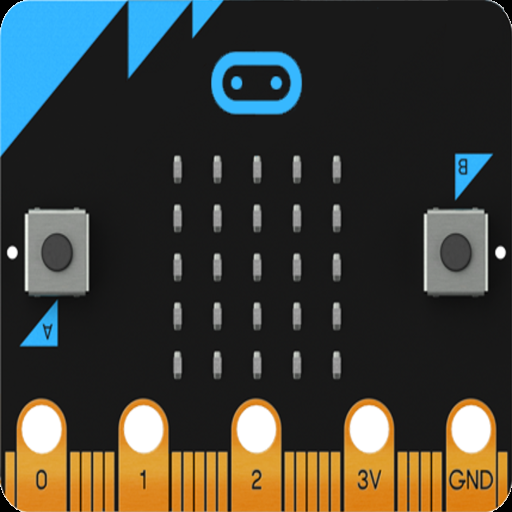
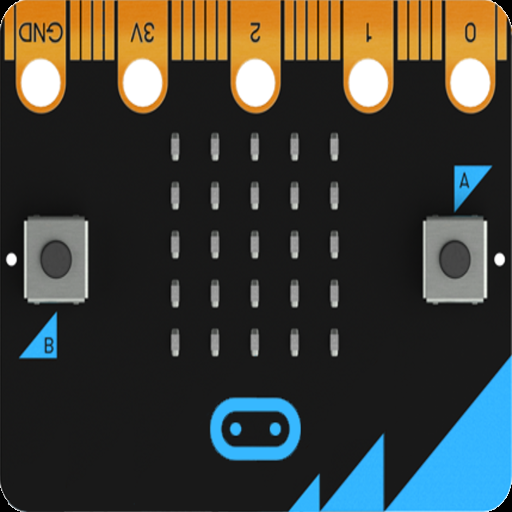
Radio working

diff --git a/smh_microbit/orientation/pc/web/js/cube.js b/smh_microbit/orientation/pc/web/js/cube.js
@@ -4,6 +4,7 @@ var camera;
 var scene;
 var renderer;
 var cube;
+var info = document.getElementById("info");   // Info text.
 
 
 function init() {
@@ -32,7 +33,7 @@ function init() {
 			shininess: 20
 		} );
 		cube = new THREE.Mesh( geometry,
-			[material1,material1,material_display,material_sensors,material1,material1,]
+			[material1,material1,material_sensors,material_display,material1,material1,]
 		);
     cube.position.z = -250;
 		scene.add( cube );
@@ -73,8 +74,9 @@ var ws = new WebSocket("ws://127.0.0.1:5678/");
 ws.onmessage = function (event) {
 	orientation = JSON.parse(event.data);
 	// console.log(orientation);
-	cube.rotation.z = orientation[0]/180*3.141592;  // Roll
+	cube.rotation.z = -orientation[0]/180*3.141592; // Roll
 	cube.rotation.x = orientation[1]/180*3.141592;  // Pitch
-	cube.rotation.y = -orientation[2]/180*3.141592;  // Yaw
+	cube.rotation.y = -orientation[2]/180*3.141592; // Yaw
+  info.innerHTML = "Roll:  "+Math.round(orientation[0])+"<br/>Pitch: "+Math.round(orientation[1])+"<br/>Yaw: "+Math.round(orientation[2])
   render();
 };

diff --git a/smh_microbit/orientation/pc/web/demo_mb.html b/smh_microbit/orientation/pc/web/demo_mb.html
@@ -1,16 +1,30 @@
 <!DOCTYPE html>
 <html>
   <head>
-    <title>WebGL/Three.js Step Tutorial</title>
+    <title>DEMO: Microbit Orientation</title>
+    <meta charset="utf-8" />
     <style>
      body {
       margin: 0px;
+      font-family: Monospace;
       background-color: #fff;
       overflow: hidden;
      }
+
+			#info {
+				position: absolute;
+				bottom: 10px;
+        left: 10px;
+				width: 100%;
+				text-align: left;
+				z-index: 100;
+				display:block;
+			}
    </style>
   </head>
   <body>
+    <div id="info">
+    </div>
    <script src="js/three.min.js"></script>
    <script src="js/cube.js"></script>
   </body>

diff --git a/smh_microbit/orientation/pc/utils/orientation.py b/smh_microbit/orientation/pc/utils/orientation.py
@@ -18,14 +18,14 @@ class Orientation:
         """Apply the inital calibration.
         """
         roll, pitch, yaw = self._data2roll_pitch_yaw(data)
-        new_roll = (-roll+self.c_roll)%360
-        if 90<new_roll<270 and 90<yaw<270:
-            pitch = -pitch
-        return (
-            new_roll,
-            (pitch-self.c_pitch)%360,
-            (yaw-self.c_yaw)%360
-        )
+        new_roll = (roll-self.c_roll)%360
+        new_yaw = (yaw-self.c_yaw)%360
+        if 90<new_yaw<270:
+            new_pitch = (self.c_pitch-pitch)%360
+        else:
+            new_pitch = (pitch-self.c_pitch)%360
+        return (new_roll, new_pitch, new_yaw)
+
 
     @staticmethod
     def _data2roll_pitch_yaw(data):

diff --git a/smh_microbit/orientation/pc/webserver.py b/smh_microbit/orientation/pc/webserver.py
@@ -27,11 +27,12 @@ if __name__ == '__main__':
     print("==>  CALIBRATION  <==")
     print("Put yout device:")
     print("\t- On an flat surface")
-    print("\t- With the LCD matrix facing upwards")
+    print("\t- With the micro:bit logo facing upwards")
     print("\t- With the USB connector pointing to the screen")
     input("... and press ENTER")
     c_roll, c_pitch, c_yaw = Orientation._data2roll_pitch_yaw(connection.get_data())
     orientation = Orientation(c_roll, c_pitch, c_yaw)
+    # orientation = Orientation(0,0,0)
     print("\n\n==>  WEB SERVER  <==")
     print("\t- Open the file web/demo_mb.html")
     print("\t- Firefox: OK")

diff --git a/smh_microbit/orientation/microbit/radio_receiver.py b/smh_microbit/orientation/microbit/radio_receiver.py
@@ -1,0 +1,18 @@
+# -*- coding: utf-8 -*-
+"""Read the radio messages and write them in the serial port.
+"""
+
+from microbit import uart
+import radio
+
+from data import DATA_LENGTH
+
+
+radio.config(length=DATA_LENGTH)
+radio.on()
+uart.init(115200)
+
+while True:
+    data = radio.receive()
+    if data:
+        uart.write(data)

diff --git a/smh_microbit/orientation/microbit/data.py b/smh_microbit/orientation/microbit/data.py
@@ -6,6 +6,7 @@ import sys
 from collections import namedtuple
 
 
+
 FIELDS = [
     'Acc_X',
     'Acc_Y',
@@ -16,6 +17,9 @@ FIELDS = [
     'Mag_Z',
     'Mag_heading'
 ]
+
+#4 digits per measure and separating commas
+DATA_LENGTH = 4*len(FIELDS) + len(FIELDS)-1 + 10
 
 Data = namedtuple('Data', FIELDS)
 

diff --git a/smh_microbit/orientation/microbit/radio_logger.py b/smh_microbit/orientation/microbit/radio_logger.py
@@ -1,0 +1,14 @@
+# -*- coding: utf-8 -*-
+"""Read sensor data and broadcast it over radio.
+"""
+
+import radio
+
+from data import DATA_LENGTH, get_data, data2msg
+
+
+radio.config(length=DATA_LENGTH)
+radio.on()
+
+while True:
+    radio.send(data2msg(get_data()))
